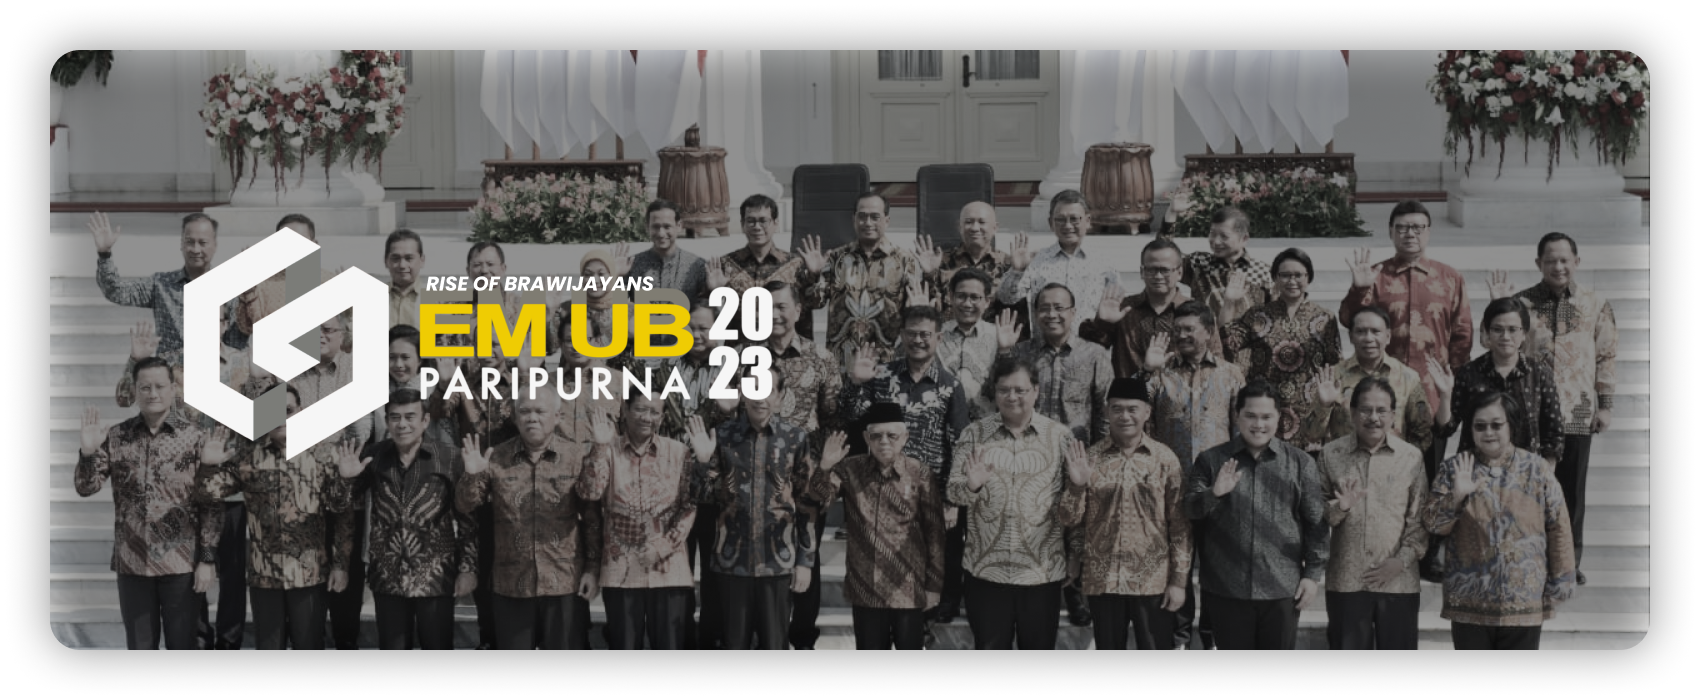
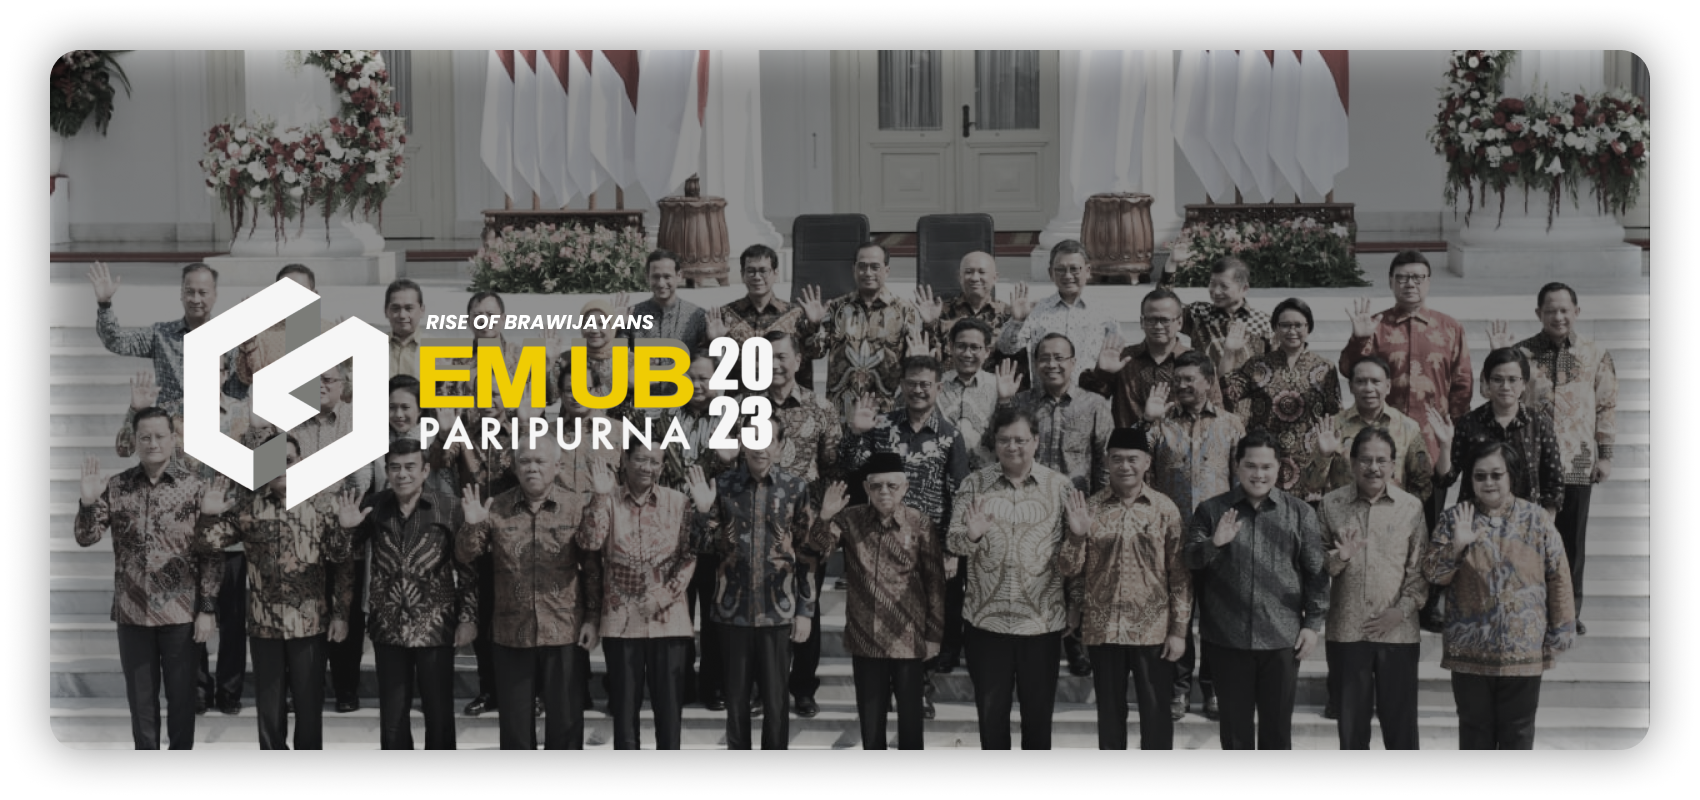
fixing homepage

diff --git a/assets/style-hp.css b/assets/style-hp.css
@@ -14,7 +14,7 @@ background: linear-gradient(0deg, rgba(246,247,239,0.06206232492997199) 3%, rgba
 
 /* Navbar */
 .nav-link {
-    font-weight: 500;
+    font-weight: 600;
 }
 
 .navbar .navbar-nav .nav-link:hover {
@@ -152,7 +152,6 @@ background: linear-gradient(0deg, rgba(246,247,239,0.06206232492997199) 3%, rgba
 #hero{
     padding-top: 0;
     height: auto;
-    width: 100vw;
 }
 
 .carousel-control-prev-icon 
@@ -257,6 +256,10 @@ background: linear-gradient(0deg, rgba(246,247,239,0.06206232492997199) 3%, rgba
     font-weight: normal;
 }
 
+.kominfo-logo{
+    width: 380px;
+}
+
 .bawah{
     color: #F89F1F;
 }
@@ -311,9 +314,15 @@ background: linear-gradient(0deg, rgba(246,247,239,0.06206232492997199) 3%, rgba
     font-size: 18px;
 } */
 #rise #riseCard p:hover{
-    transform: scale(1.08);
-    transition: 1s;
+    transform: translateY(-4px);
+    transition: 0.5s;
+    -webkit-box-shadow: 0px 0px 15px 2px #F89F1F;
+    box-shadow: 0px 0px 15px 2px #F89F1F;
     cursor: pointer;
+}
+
+.foto-card{
+    width:380px;
 }
 
 /* Proker Unggulan */
@@ -410,13 +419,10 @@ background: linear-gradient(0deg, rgba(246,247,239,0.06206232492997199) 3%, rgba
     transition: 0.5s;
 }
 
-@media only screen and (max-width: 992px) {
+@media only screen and (max-width: 428px) {
     #news{
         padding-top: 5vh;
         height: auto;
-    }
-    #kominfo-logo{
-        display: none;
     }
 
     #deskripsi-news{
@@ -437,12 +443,12 @@ background: linear-gradient(0deg, rgba(246,247,239,0.06206232492997199) 3%, rgba
         height: auto;
     }
 
-    #foto-card{
-        display: none;
+    .foto-card{
+        width: 240px;
     }
 
     .bg-fun{
-        margin-left: 5vw;
+        margin-left: 5%;
         text-align: center;
     }
 
@@ -459,11 +465,6 @@ background: linear-gradient(0deg, rgba(246,247,239,0.06206232492997199) 3%, rgba
     #proker{
         padding-top: 10vh;
         height: auto;
-    }
-
-    #accor-78{
-        padding-top: 0;
-        margin-top: -3vh;
     }
 
     #footer{
@@ -503,6 +504,101 @@ background: linear-gradient(0deg, rgba(246,247,239,0.06206232492997199) 3%, rgba
     }
 }
 
+@media only screen and (min-width: 768px) and (max-width:1200px){
+    #news{
+        padding-top: 5vh;
+        height: auto;
+    }
+
+    #deskripsi-news{
+        display: none;
+    }
+    #header-news{
+        margin-bottom: 2vh;
+    }
+
+    .btn-warning{
+        margin-top: 5vh;
+        margin-left: 30vw;
+        margin-right: 27vw;
+    }
+
+    #rise{
+        padding-top: 10vh;
+        height: auto;
+    }
+
+    .foto-card{
+        width: 240px;
+    }
+
+    .bg-fun{
+        margin-left: 20vw;
+        text-align: center;
+    }
+
+    .bg-poin{
+        font-size: 14px;
+        margin-left: 2vw;
+        width: 30vw;
+    }
+
+    #riseCard #kanan{
+        margin-left: 3vw;
+    }
+
+    
+    #foto-card{
+        margin-left: 25%;
+    }
+
+    #proker{
+        padding-top: 10vh;
+        height: auto;
+    }
+
+    #footer{
+        height: auto;
+        background-color: #000000;
+    }
+
+    #footer #copyright{
+        padding-top: 0px;
+        padding-bottom: 0;
+        font-size: 12px;
+        border-radius: 0;
+        text-align: center;
+    }
+
+    #footer #mobile-footer{
+        display: block;
+    }
+
+    #footer #mobile-footer ul{
+        margin-left: 18%;
+        width: 100%;
+        font-size: 16px;
+        padding: 10px;
+        margin-top: 2vh;
+        border-radius: 75px;
+        color: white;
+        list-style: none;
+        display: flex;
+    }
+
+    #footer #mobile-footer ul li{
+        margin-right: 20px;
+        margin-left: 20px;
+    }
+
+    #footer #socmed-footer{
+        display: none;
+    }
+
+    #footer #address-footer{
+        display: none;
+    }
+}
 
 
 

diff --git a/homepage.php b/homepage.php
@@ -120,7 +120,7 @@
 
     <header id="hero">
       <div class="container-fluid">
-        <div class="col-lg-12">
+        <div class="col-lg-12" data-aos="fade-down" data-aos-duration="1000">
           <div id="carouselExampleIndicators" class="carousel slide" data-bs-ride="carousel">
             <div class="carousel-indicators">
               <button type="button" data-bs-target="#carouselExampleIndicators" data-bs-slide-to="0" class="active" aria-current="true" aria-label="Slide 1"></button>
@@ -164,21 +164,21 @@
         <div class="row align-items-center">
           <div data-aos="fade-right" data-aos-duration="1000" id="title-news" class="col-lg-7">
             <div class="row align-items-center">
-              <div id="kominfo-logo" class="col-lg-7">
-                <img src="<?php echo get_theme_file_uri("/assets/images/KOMINFO 1.png")?>" width="380px">
+              <div id="kominfo-logo" class="col-lg-7 col-sm-6 d-none d-sm-block">
+                <img src="<?php echo get_theme_file_uri("/assets/images/KOMINFO 1.png")?>" class="kominfo-logo">
               </div>
-              <div id="header-news" class="col-lg-5">
+              <div id="header-news" class="col-lg-5 col-sm-6">
                 <h2 class="fw-bold atas">Berita</h2>
                 <h2 class="fw-bold bawah">EM UB 2023</h2>
               </div>
-              <div id="deskripsi-news" class="col-lg-12">
+              <div id="deskripsi-news" class="col-lg-12 col-sm-6">
                 <p class="text-center fw-bold">EM UB 2023 menyajikan informasi seputar akademik,<br> kegiatan mahasiswa, beasiswa, magang dan lainnya.</p>
               </div>
             </div>
           </div>
           <div data-aos="fade-left" data-aos-duration="1000" class="col-lg-5">
             <div class="row align-items-center">
-              <div id="card" class="col-lg-8">
+              <div id="card" class="col-lg-8 col-sm-6">
                 <?php 
                   if (has_post_thumbnail()) {
                     echo the_post_thumbnail('on-post-thumbnail');
@@ -210,10 +210,10 @@
         </div>
         <div id="riseCard" data-aos="zoom-out-up" data-aos-duration="1000">
           <div class="row">
-            <div id="foto-card" class="col-lg-5">
-              <img src="<?php echo get_theme_file_uri("/assets/images/Tinju.png")?>" alt="pres-wapres" width="380px" class="ms-5">
+            <div id="foto-card" class="col-lg-5 col-sm-12">
+              <img src="<?php echo get_theme_file_uri("/assets/images/Tinju.png")?>" alt="pres-wapres" class="ms-lg-4 ms-5 foto-card img-fluid">
             </div>
-            <div class="col-lg-7">
+            <div class="col-lg-7 col-sm-12">
               <h4 class="text-white mt-4 fw-bold bg-fun text-center">Fundamental Value</h4>
               <div class="row p-5 text-center">
                 <div class="col-5">
@@ -327,7 +327,7 @@
               </div>
             </div>
           </div>
-          <div id="accor-78" class="col-lg-12 pt-4">
+          <div id="accor-78" class="col-lg-12">
             <div class="accordion" id="accordion3">
               <div class="accordion-item">
                 <h2 class="accordion-header" id="accordion3-headingOne">
@@ -365,7 +365,7 @@
       <div class="container-fluid">
         <div class="row">
           <div id="mobile-footer" class="col-lg-12">
-            <ul>
+            <ul class="">
               <li class="ms-3"><a href=""><img src="<?php echo get_theme_file_uri("/assets/images/linkedin.png")?>" width="20px"></a></li>
               <li class="ms-3"><a href=""><img src="<?php echo get_theme_file_uri("/assets/images/twitter-white.png")?>" width="26px"></a></li>
               <li class="ms-3"><a href=""><img src="<?php echo get_theme_file_uri("/assets/images/tiktok-white.png")?>" width="26px"></a></li>
